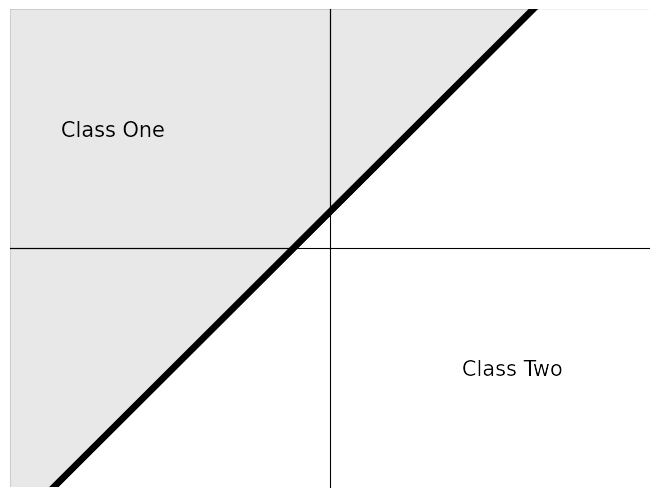
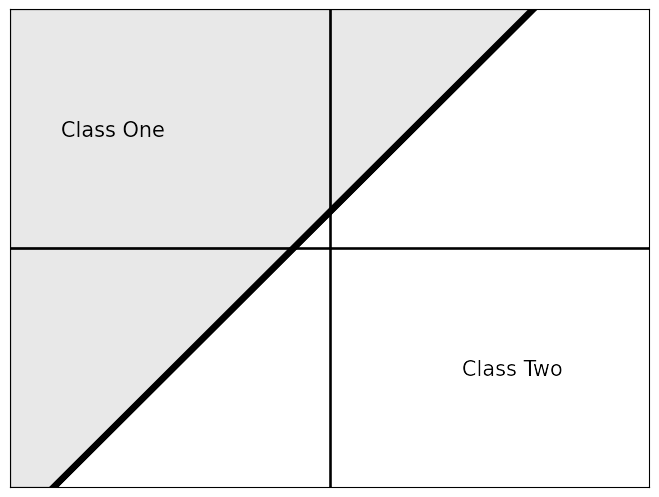
Changed the method of representing the axes being in the middle

diff --git a/src/examples/SVMClassSeparation.py b/src/examples/SVMClassSeparation.py
@@ -55,12 +55,10 @@ def main(imageSaveLocation):
     linegraph.graphGeneration([lineEndPointX], [lineEndPointY], currentFigure=currentFigure, markerSizes=[0], lineWidths=[5])
     plt.fill_between(lineEndPointX, lineEndPointY, [maxY] * len(lineEndPointX), color='black', alpha=0.3)
 
-    # Each plot has a top, bottom, left and right spine. We are moving the left and bottom one into the middle (by zeroing them),
-    # and then hiding the other two to make it look like there are only two spines (and therefore make them appear as the x and y axis).
-    plot.spines['left'].set_position('zero')
-    plot.spines['right'].set_color('none')
-    plot.spines['bottom'].set_position('zero')
-    plot.spines['top'].set_color('none')
+    # Add two lines to represent the axes.
+    halfWayXAxis = (minX + maxX) / 2.0
+    halfWayYAxis = (minY + maxY) / 2.0
+    linegraph.graphGeneration([[halfWayXAxis, halfWayXAxis], [minX, maxX]], [[minY, maxY], [halfWayYAxis, halfWayYAxis]], currentFigure=currentFigure, markerSizes=[0, 0], lineWidths=[2, 2])
 
     # Add the class labels to the graph.
     addtext.graphGeneration(classLabelXLocs, classLabelYLocs, classLabels, currentFigure=currentFigure, sizes=[15] * len(classLabels), zorders=list(range(len(classLabels))))
